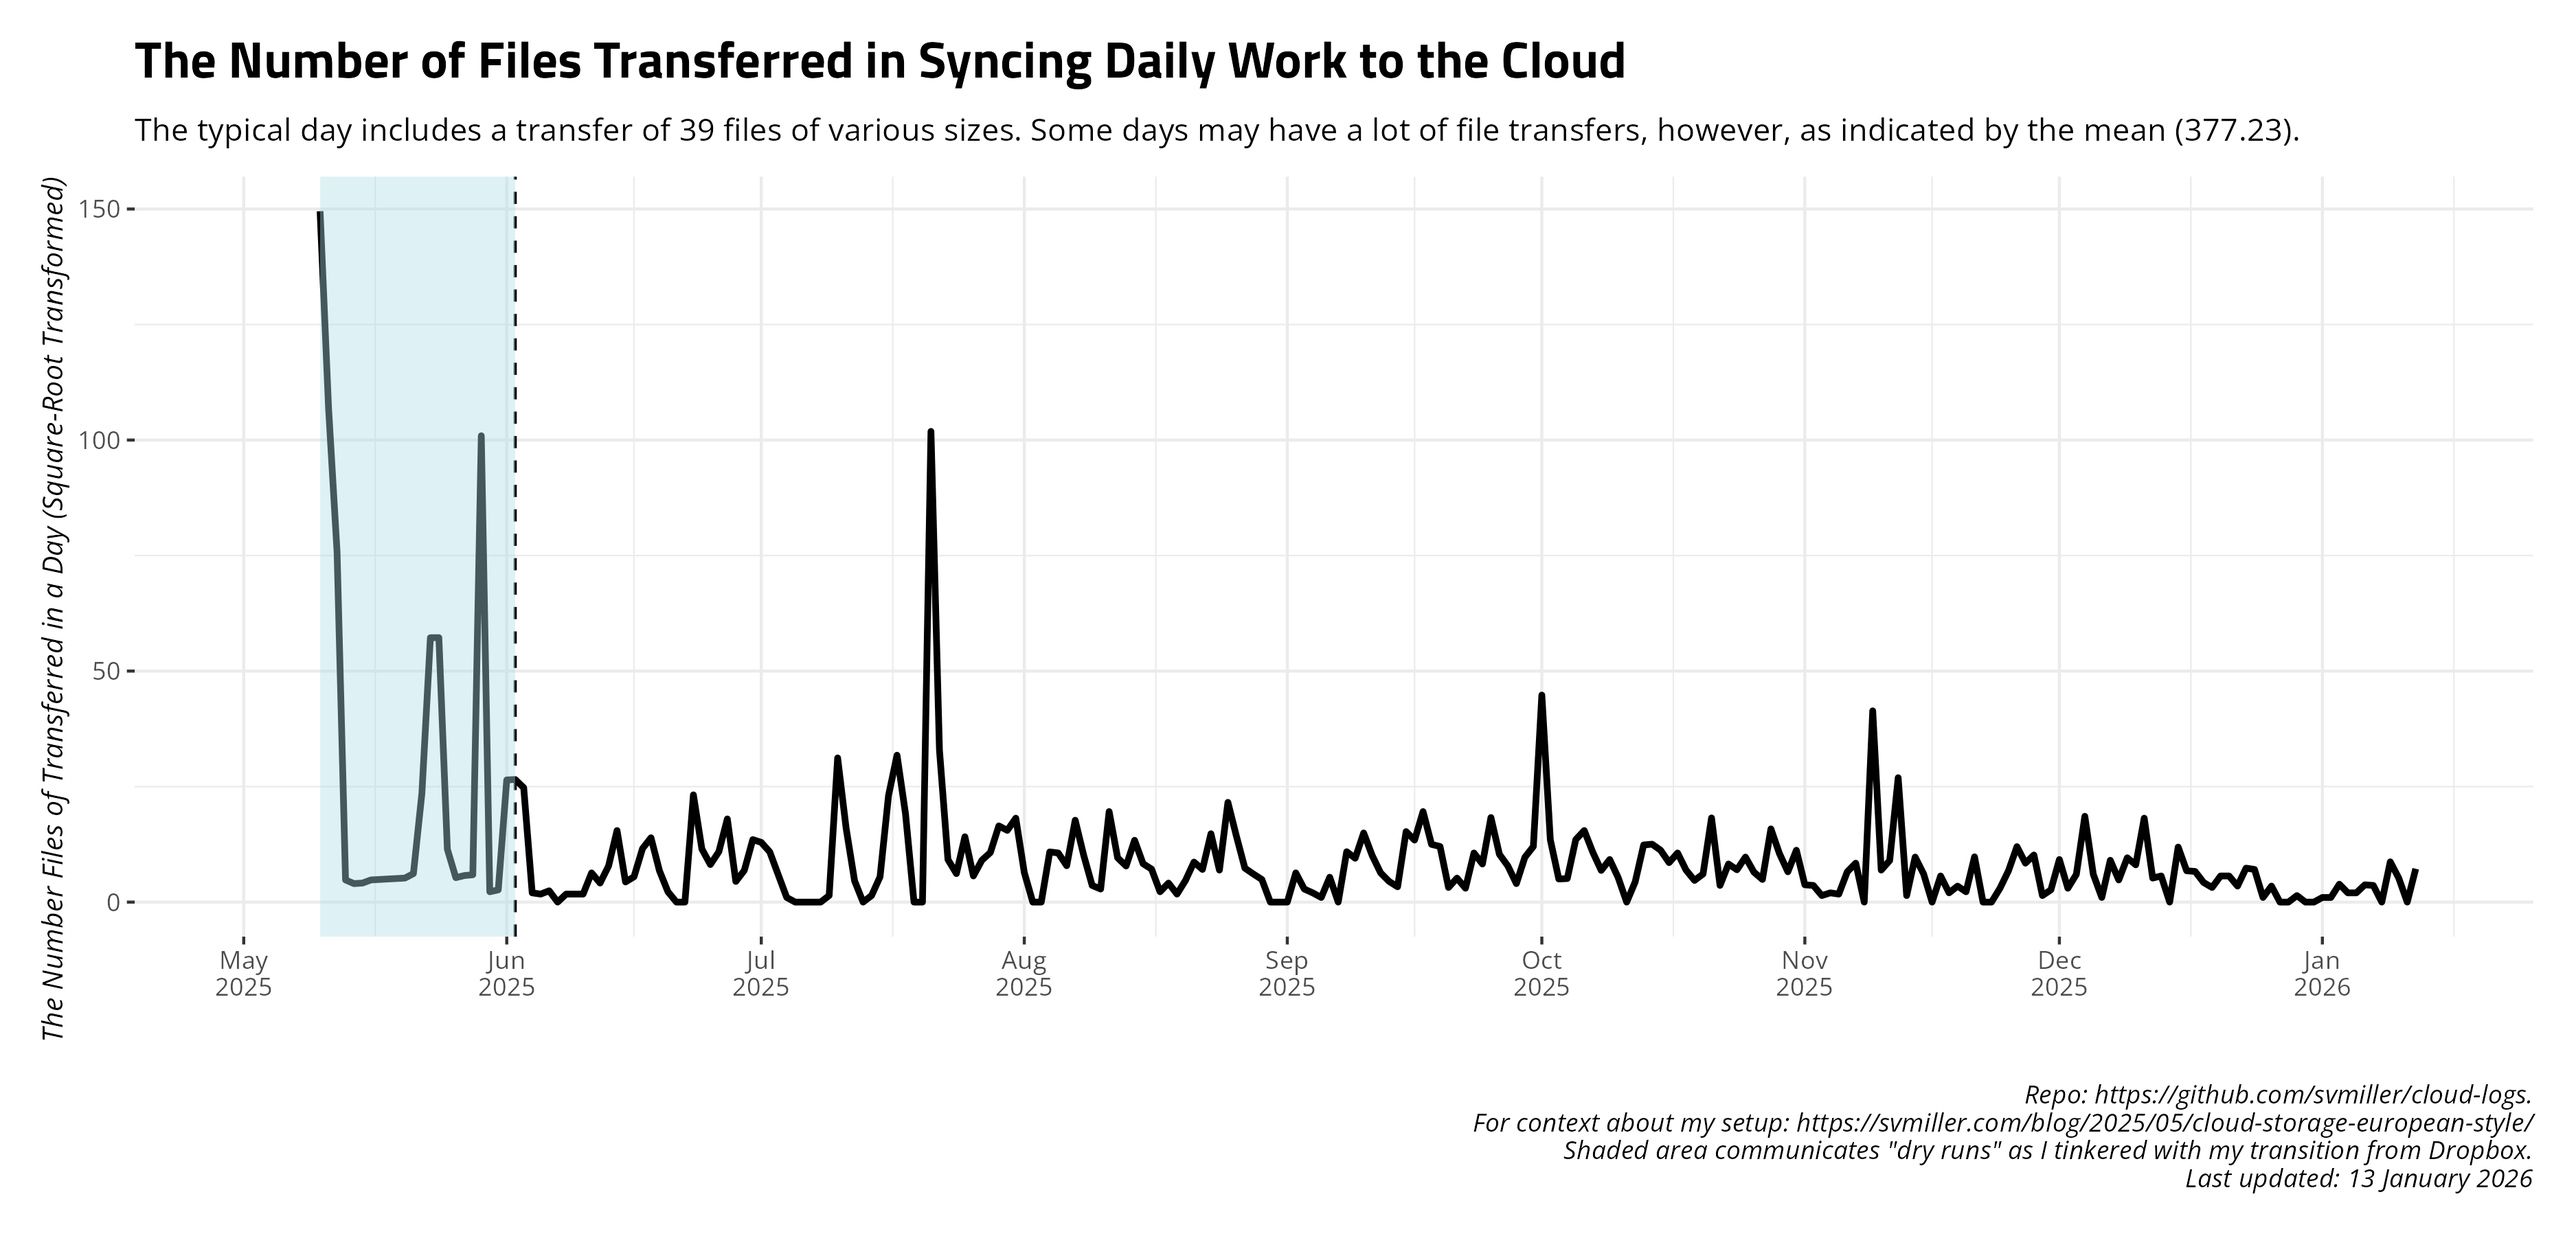
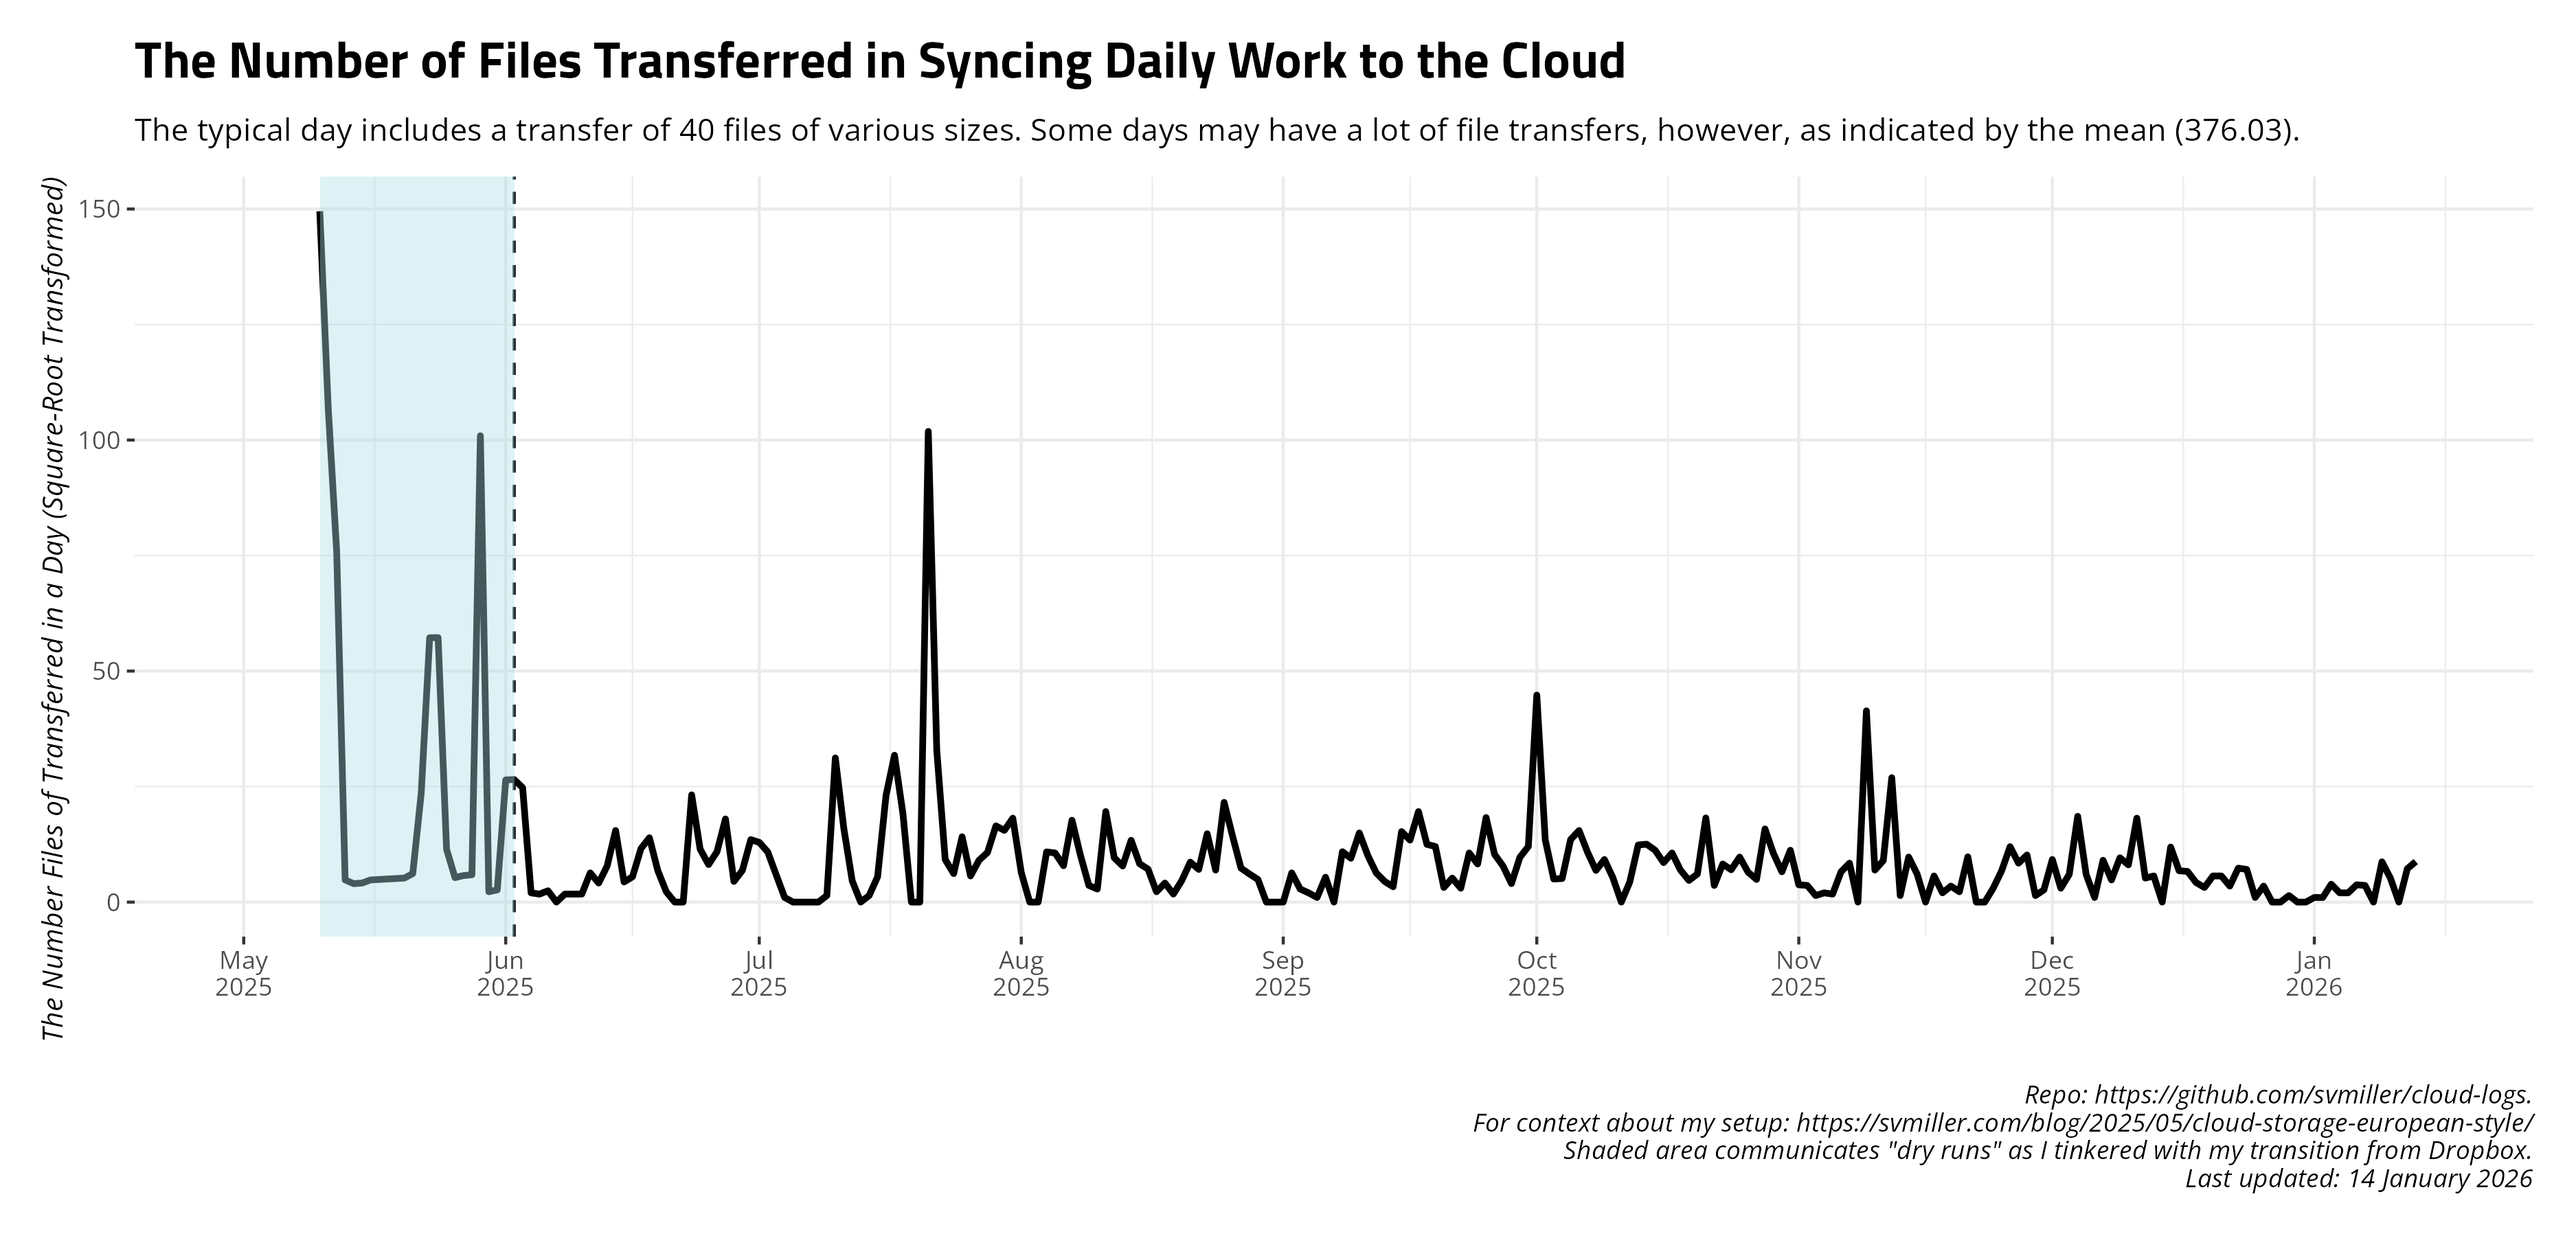
Date: 2026-01-14 09:00:21. Hi mom!

diff --git a/README.md b/README.md
@@ -27,17 +27,17 @@ and uploads to Github.
     #> # A tibble: 14 × 4
     #>    date       ftransfer stransfer   elapsed
     #>    <date>         <dbl> <chr>       <chr>  
-    #>  1 2025-12-30         0 <NA>        5m48.6s
-    #>  2 2025-12-31         0 <NA>        5m47.7s
-    #>  3 2026-01-01         1 53.897 KiB  5m50.3s
-    #>  4 2026-01-02         1 54.116 KiB  5m46.6s
-    #>  5 2026-01-03        15 11.971 MiB  5m49.2s
-    #>  6 2026-01-04         4 246.865 KiB 5m50.9s
-    #>  7 2026-01-05         4 545.865 KiB 6m18.5s
-    #>  8 2026-01-06        14 126.652 KiB 4m46.0s
-    #>  9 2026-01-07        13 1.440 MiB   6m7.9s 
-    #> 10 2026-01-08         0 <NA>        5m55.4s
-    #> 11 2026-01-09        76 3.544 MiB   5m53.8s
-    #> 12 2026-01-10        27 11.354 MiB  5m59.2s
-    #> 13 2026-01-11         0 <NA>        5m49.0s
-    #> 14 2026-01-12        52 2.182 MiB   5m55.8s
+    #>  1 2025-12-31         0 <NA>        5m47.7s
+    #>  2 2026-01-01         1 53.897 KiB  5m50.3s
+    #>  3 2026-01-02         1 54.116 KiB  5m46.6s
+    #>  4 2026-01-03        15 11.971 MiB  5m49.2s
+    #>  5 2026-01-04         4 246.865 KiB 5m50.9s
+    #>  6 2026-01-05         4 545.865 KiB 6m18.5s
+    #>  7 2026-01-06        14 126.652 KiB 4m46.0s
+    #>  8 2026-01-07        13 1.440 MiB   6m7.9s 
+    #>  9 2026-01-08         0 <NA>        5m55.4s
+    #> 10 2026-01-09        76 3.544 MiB   5m53.8s
+    #> 11 2026-01-10        27 11.354 MiB  5m59.2s
+    #> 12 2026-01-11         0 <NA>        5m49.0s
+    #> 13 2026-01-12        52 2.182 MiB   5m55.8s
+    #> 14 2026-01-13        77 818.499 KiB 6m7.7s
